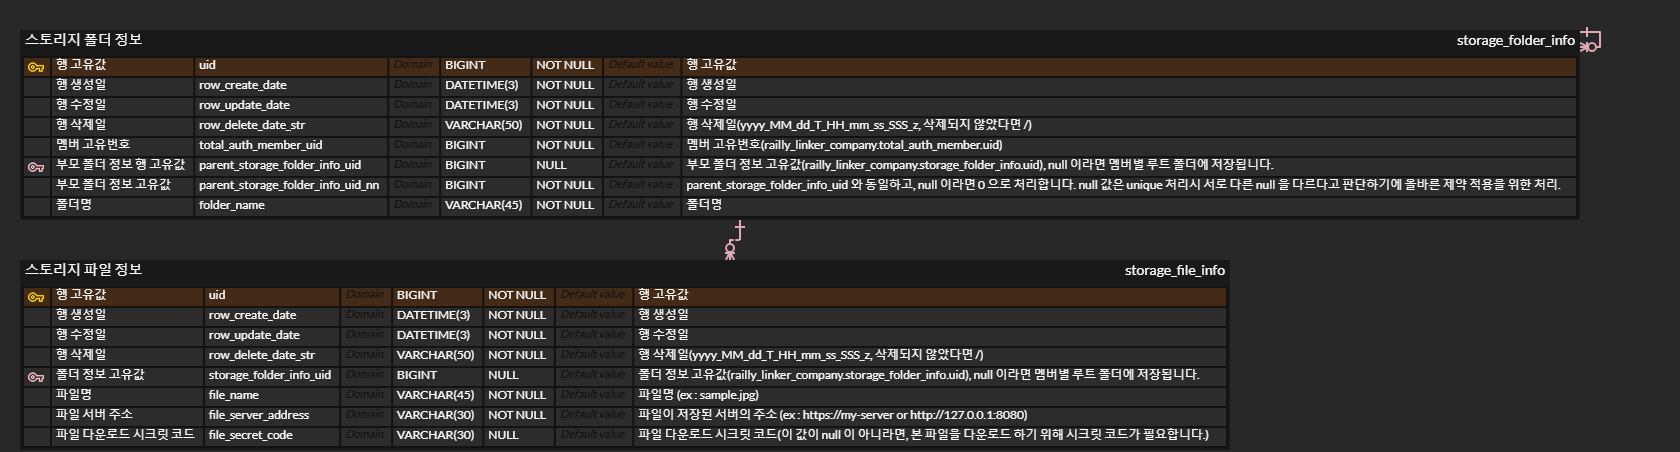
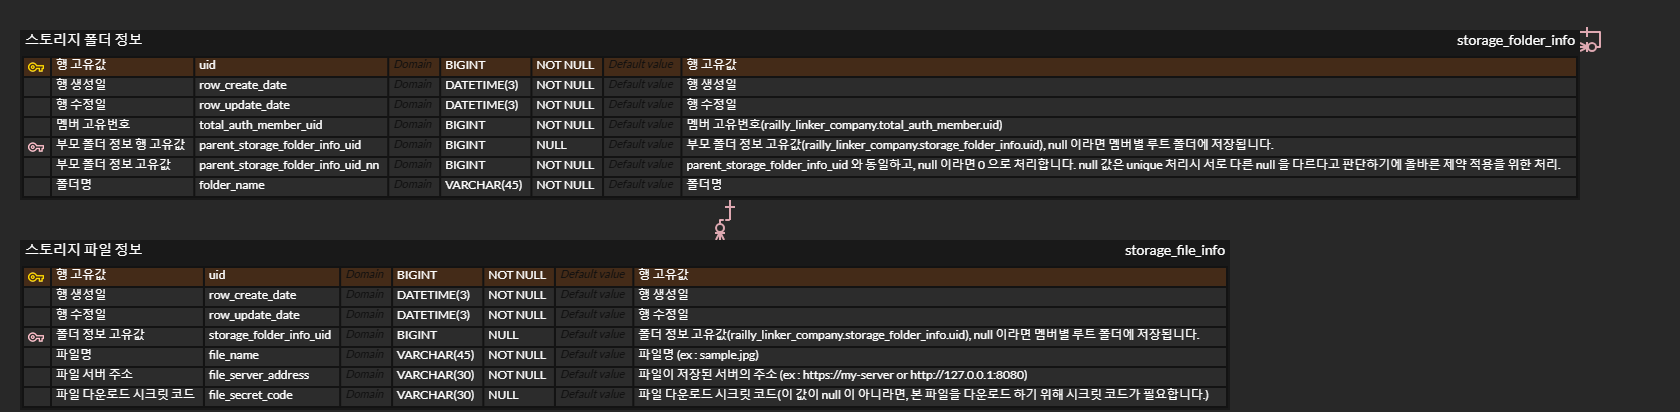
feat : 파일 정보를 물리적 삭제로 전환 및 삭제 api 구현 완료

Changed region(s): [[0.0, 0.0583, 0.9595, 0.466], [0.0, 0.5825, 0.7429, 0.9903], [0.4024, 0.4951, 0.4643, 0.5825]]

diff --git a/module-file-storage/src/main/kotlin/com/raillylinker/services/StorageService.kt b/module-file-storage/src/main/kotlin/com/raillylinker/services/StorageService.kt
@@ -10,6 +10,7 @@ import com.raillylinker.jpa_beans.db1_main.repositories.Db1_RaillyLinkerCompany_
 import com.raillylinker.jpa_beans.db1_main.repositories.Db1_RaillyLinkerCompany_TotalAuthMember_Repository
 import com.raillylinker.util_components.JwtTokenUtil
 import jakarta.servlet.http.HttpServletResponse
+import org.apache.commons.io.FileUtils
 import org.slf4j.Logger
 import org.slf4j.LoggerFactory
 import org.springframework.beans.factory.annotation.Value
@@ -82,10 +83,9 @@ class StorageService(
                 null
             } else {
                 val parentStorageFolderEntity =
-                    db1RaillyLinkerCompanyStorageFolderInfoRepository.findByUidAndTotalAuthMemberUidAndRowDeleteDateStr(
+                    db1RaillyLinkerCompanyStorageFolderInfoRepository.findByUidAndTotalAuthMemberUid(
                         inputVo.parentStorageFolderInfoUid,
-                        memberUid,
-                        "/"
+                        memberUid
                     )
 
                 if (parentStorageFolderEntity == null) {
@@ -119,7 +119,7 @@ class StorageService(
         // 상위 폴더에서부터 지금 폴더 까지의 계층 반환
         val folderPathStringBuilder = StringBuilder()
         var anchorFolderEntity: Db1_RaillyLinkerCompany_StorageFolderInfo? = newStorageFolderInfo
-        while (anchorFolderEntity != null && anchorFolderEntity.rowDeleteDateStr == "/") {
+        while (anchorFolderEntity != null) {
             folderPathStringBuilder.insert(0, "/" + anchorFolderEntity.folderName)
             anchorFolderEntity = anchorFolderEntity.parentStorageFolderInfo
         }
@@ -165,10 +165,9 @@ class StorageService(
 
         // 수정하려는 폴더 정보 조회
         val storageFolderEntity =
-            db1RaillyLinkerCompanyStorageFolderInfoRepository.findByUidAndTotalAuthMemberUidAndRowDeleteDateStr(
+            db1RaillyLinkerCompanyStorageFolderInfoRepository.findByUidAndTotalAuthMemberUid(
                 storageFolderInfoUid,
-                memberUid,
-                "/"
+                memberUid
             )
 
         if (storageFolderEntity == null) {
@@ -184,7 +183,7 @@ class StorageService(
         // 기존 폴더 정보 객체
         val oldFolderPathStringBuilder = StringBuilder()
         var oldAnchorFolderEntity: Db1_RaillyLinkerCompany_StorageFolderInfo? = storageFolderEntity
-        while (oldAnchorFolderEntity != null && oldAnchorFolderEntity.rowDeleteDateStr == "/") {
+        while (oldAnchorFolderEntity != null) {
             oldFolderPathStringBuilder.insert(0, "/" + oldAnchorFolderEntity.folderName)
             oldAnchorFolderEntity = oldAnchorFolderEntity.parentStorageFolderInfo
         }
@@ -199,10 +198,9 @@ class StorageService(
                 null
             } else {
                 val parentStorageFolderEntity =
-                    db1RaillyLinkerCompanyStorageFolderInfoRepository.findByUidAndTotalAuthMemberUidAndRowDeleteDateStr(
+                    db1RaillyLinkerCompanyStorageFolderInfoRepository.findByUidAndTotalAuthMemberUid(
                         inputVo.parentStorageFolderInfoUid,
-                        memberUid,
-                        "/"
+                        memberUid
                     )
 
                 if (parentStorageFolderEntity == null) {
@@ -214,7 +212,7 @@ class StorageService(
 
                 // 상위 폴더를 자기 자신의 하위 폴더로 설정 못하도록 검증
                 var anchorFolderEntity: Db1_RaillyLinkerCompany_StorageFolderInfo? = parentStorageFolderEntity
-                while (anchorFolderEntity != null && anchorFolderEntity.rowDeleteDateStr == "/") {
+                while (anchorFolderEntity != null) {
                     // 상위 폴더로 설정할 엔티티가 자기 자신의 하위 폴더로 설정 되어 있는지 확인
                     if (anchorFolderEntity.uid == storageFolderInfoUid) {
                         httpServletResponse.status = HttpStatus.NO_CONTENT.value()
@@ -243,7 +241,7 @@ class StorageService(
         // 새 폴더 정보 객체
         val newFolderPathStringBuilder = StringBuilder()
         var newAnchorFolderEntity: Db1_RaillyLinkerCompany_StorageFolderInfo? = storageFolderEntity
-        while (newAnchorFolderEntity != null && newAnchorFolderEntity.rowDeleteDateStr == "/") {
+        while (newAnchorFolderEntity != null) {
             newFolderPathStringBuilder.insert(0, "/" + newAnchorFolderEntity.folderName)
             newAnchorFolderEntity = newAnchorFolderEntity.parentStorageFolderInfo
         }
@@ -278,10 +276,9 @@ class StorageService(
 
         // 삭제하려는 폴더 정보 조회
         val storageFolderEntity =
-            db1RaillyLinkerCompanyStorageFolderInfoRepository.findByUidAndTotalAuthMemberUidAndRowDeleteDateStr(
+            db1RaillyLinkerCompanyStorageFolderInfoRepository.findByUidAndTotalAuthMemberUid(
                 storageFolderInfoUid,
-                memberUid,
-                "/"
+                memberUid
             )
 
         if (storageFolderEntity == null) {
@@ -291,16 +288,45 @@ class StorageService(
             return
         }
 
+        // 실제 삭제할 폴더 경로 가져오기
+        // 기본 파일 저장 위치(./by_product_files/file_storage/files 의 멤버별 할당 폴더)
+        val memberRootPath = storageRootPath + "/member_${memberUid}"
+
+        // 상위 폴더에서부터 지금 폴더 까지의 계층 반환
+        val folderPathStringBuilder = StringBuilder()
+        var anchorFolderEntity: Db1_RaillyLinkerCompany_StorageFolderInfo? = storageFolderEntity
+        while (anchorFolderEntity != null) {
+            folderPathStringBuilder.insert(0, "/" + anchorFolderEntity.folderName)
+            anchorFolderEntity = anchorFolderEntity.parentStorageFolderInfo
+        }
+
+        // 경로 String 을 Path 변수로 변환
+        val saveDirectoryPath =
+            Paths.get(memberRootPath + folderPathStringBuilder.toString()).toAbsolutePath().normalize()
+
         // 기준 폴더로부터 모든 하위 폴더 출력 (하위 Depth 폴더 우선 정렬)
         val folderTreePathList =
             db1RaillyLinkerCompanyStorageFolderInfoRepository.findAllStorageFolderTreeUidList(storageFolderInfoUid)
         for (folderTreePath in folderTreePathList) {
-            // todo 테스트
-            // todo 하위 파일 삭제 처리
+            // 폴더 내 하위 파일들 조회
+            val fileInfoList =
+                db1RaillyLinkerCompanyStorageFileInfoRepository.findAllByStorageFolderInfoUid(
+                    folderTreePath.uid
+                )
 
-            // todo 하위 폴더 삭제 처리
+            for (fileInfo in fileInfoList) {
+                // 하위 파일들 삭제 처리
+                db1RaillyLinkerCompanyStorageFileInfoRepository.deleteById(fileInfo.uid!!)
+            }
+
+            // 폴더 삭제 처리
+            db1RaillyLinkerCompanyStorageFolderInfoRepository.deleteById(folderTreePath.uid)
         }
 
+        // 파일 폴더 실제 삭제 처리(선택한 최상위 폴더를 삭제하면 자동으로 아래 파일들 삭제되게)
+        FileUtils.deleteDirectory(saveDirectoryPath.toFile())
+
         httpServletResponse.status = HttpStatus.OK.value()
+        // todo 파일 정보 삭제 테스트
     }
 }

diff --git a/module-file-storage/src/main/kotlin/com/raillylinker/jpa_beans/db1_main/repositories/Db1_RaillyLinkerCompany_StorageFolderInfo_Repository.kt b/module-file-storage/src/main/kotlin/com/raillylinker/jpa_beans/db1_main/repositories/Db1_RaillyLinkerCompany_StorageFolderInfo_Repository.kt
@@ -11,10 +11,9 @@ import org.springframework.stereotype.Repository
 @Repository
 interface Db1_RaillyLinkerCompany_StorageFolderInfo_Repository :
     JpaRepository<Db1_RaillyLinkerCompany_StorageFolderInfo, Long> {
-    fun findByUidAndTotalAuthMemberUidAndRowDeleteDateStr(
+    fun findByUidAndTotalAuthMemberUid(
         uid: Long,
-        totalAuthMemberUid: Long,
-        rowDeleteDateStr: String
+        totalAuthMemberUid: Long
     ): Db1_RaillyLinkerCompany_StorageFolderInfo?
 
 
@@ -29,8 +28,7 @@ interface Db1_RaillyLinkerCompany_StorageFolderInfo_Repository :
                 0 AS depth
                 FROM railly_linker_company.storage_folder_info as storage_folder_info
                 WHERE 
-                storage_folder_info.uid = :storageFolderUid and 
-                storage_folder_info.row_delete_date_str = "/"
+                storage_folder_info.uid = :storageFolderUid
                 UNION ALL
                 SELECT 
                 child.*, 
@@ -39,10 +37,7 @@ interface Db1_RaillyLinkerCompany_StorageFolderInfo_Repository :
                 INNER JOIN 
                 StorageFolderTree as parent 
                 ON 
-                child.parent_storage_folder_info_uid = parent.uid and 
-                parent.row_delete_date_str = "/"
-                WHERE 
-                child.row_delete_date_str = "/"
+                child.parent_storage_folder_info_uid = parent.uid
             )
             SELECT 
             StorageFolderTree.uid

diff --git a/module-file-storage/src/main/kotlin/com/raillylinker/jpa_beans/db1_main/entities/Db1_RaillyLinkerCompany_StorageFileInfo.kt b/module-file-storage/src/main/kotlin/com/raillylinker/jpa_beans/db1_main/entities/Db1_RaillyLinkerCompany_StorageFileInfo.kt
@@ -1,7 +1,6 @@
 package com.raillylinker.jpa_beans.db1_main.entities
 
 import jakarta.persistence.*
-import org.hibernate.annotations.ColumnDefault
 import org.hibernate.annotations.Comment
 import org.hibernate.annotations.CreationTimestamp
 import org.hibernate.annotations.UpdateTimestamp
@@ -15,7 +14,7 @@ import java.time.LocalDateTime
     name = "storage_file_info",
     catalog = "railly_linker_company",
     uniqueConstraints = [
-        UniqueConstraint(columnNames = ["storage_folder_info_uid", "file_name", "row_delete_date_str"])
+        UniqueConstraint(columnNames = ["storage_folder_info_uid", "file_name"])
     ]
 )
 @Comment("스토리지 파일 정보")
@@ -52,11 +51,6 @@ class Db1_RaillyLinkerCompany_StorageFileInfo(
     @UpdateTimestamp
     @Comment("행 수정일")
     var rowUpdateDate: LocalDateTime? = null
-
-    @Column(name = "row_delete_date_str", nullable = false, columnDefinition = "VARCHAR(50)")
-    @ColumnDefault("'/'")
-    @Comment("행 삭제일(yyyy_MM_dd_T_HH_mm_ss_SSS_z, 삭제되지 않았다면 /)")
-    var rowDeleteDateStr: String = "/"
 
 
     // ---------------------------------------------------------------------------------------------

diff --git a/module-file-storage/src/main/kotlin/com/raillylinker/jpa_beans/db1_main/entities/Db1_RaillyLinkerCompany_StorageFolderInfo.kt b/module-file-storage/src/main/kotlin/com/raillylinker/jpa_beans/db1_main/entities/Db1_RaillyLinkerCompany_StorageFolderInfo.kt
@@ -15,7 +15,7 @@ import java.time.LocalDateTime
     name = "storage_folder_info",
     catalog = "railly_linker_company",
     uniqueConstraints = [
-        UniqueConstraint(columnNames = ["parent_storage_folder_info_uid_nn", "folder_name", "row_delete_date_str"])
+        UniqueConstraint(columnNames = ["parent_storage_folder_info_uid_nn", "folder_name"])
     ]
 )
 @Comment("스토리지 폴더 정보")
@@ -58,11 +58,6 @@ class Db1_RaillyLinkerCompany_StorageFolderInfo(
     @UpdateTimestamp
     @Comment("행 수정일")
     var rowUpdateDate: LocalDateTime? = null
-
-    @Column(name = "row_delete_date_str", nullable = false, columnDefinition = "VARCHAR(50)")
-    @ColumnDefault("'/'")
-    @Comment("행 삭제일(yyyy_MM_dd_T_HH_mm_ss_SSS_z, 삭제되지 않았다면 /)")
-    var rowDeleteDateStr: String = "/"
 
 
     // ---------------------------------------------------------------------------------------------

diff --git a/module-file-storage/src/main/kotlin/com/raillylinker/jpa_beans/db1_main/repositories/Db1_RaillyLinkerCompany_StorageFileInfo_Repository.kt b/module-file-storage/src/main/kotlin/com/raillylinker/jpa_beans/db1_main/repositories/Db1_RaillyLinkerCompany_StorageFileInfo_Repository.kt
@@ -9,8 +9,7 @@ import org.springframework.stereotype.Repository
 @Repository
 interface Db1_RaillyLinkerCompany_StorageFileInfo_Repository :
     JpaRepository<Db1_RaillyLinkerCompany_StorageFileInfo, Long> {
-    fun findByUidAndRowDeleteDateStr(
-        uid: Long,
-        rowDeleteDateStr: String
-    ): Db1_RaillyLinkerCompany_StorageFileInfo?
+    fun findAllByStorageFolderInfoUid(
+        storageFolderInfoUid: Long
+    ): List<Db1_RaillyLinkerCompany_StorageFileInfo>
 }

diff --git a/module-file-storage/src/main/kotlin/com/raillylinker/controllers/StorageController.kt b/module-file-storage/src/main/kotlin/com/raillylinker/controllers/StorageController.kt
@@ -228,7 +228,7 @@ class StorageController(
 
 
     /*
-        폴더 조회(유저 아이디 필터 및 본인 인증 필요, 폴더 트리 반환)
+        폴더 조회(본인 인증 필요, 폴더 트리 반환)
 
 
         파일 입력(인증 필요)
